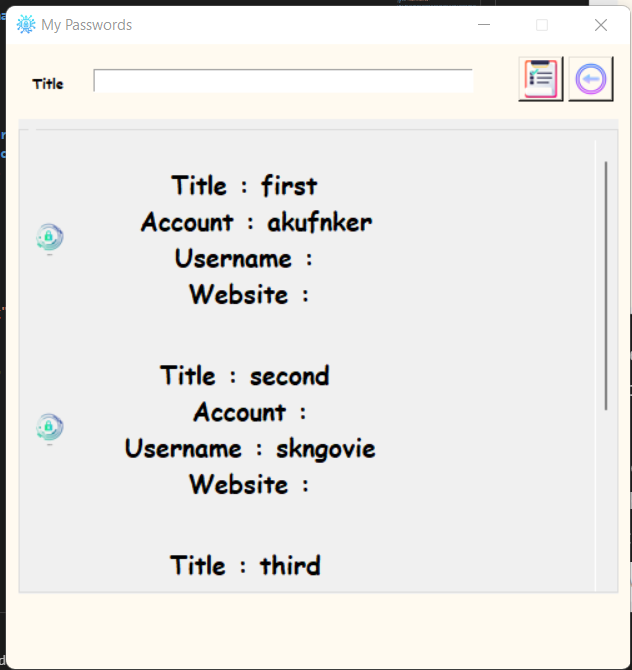
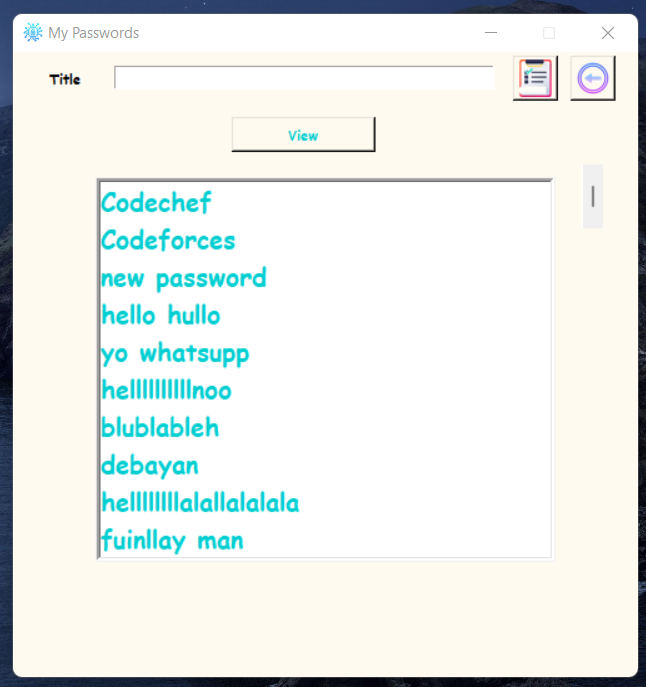
made some UI changes easier to access passwords

diff --git a/Python/OfflinePasswordManager/passwordapp.py b/Python/OfflinePasswordManager/passwordapp.py
@@ -4,11 +4,9 @@ from PIL import Image,ImageTk
 import pyperclip as pc
 import sqlite3
 import create_database
-from tkinter import END, LEFT, TOP, messagebox, ttk, TOP, LEFT, BOTH, VERTICAL, RIGHT, Y
+from tkinter import ANCHOR, END, LEFT, NW, TOP, messagebox, ttk, TOP, LEFT, BOTH, VERTICAL, RIGHT, Y
 import sending_email
 import random
-
-
 
 
 ### COLORS
@@ -136,11 +134,7 @@ def copypasswd():                                                          ## fu
     sfield.delete(0,END)
 
 def scrchng():
-    sfield.place_forget()
-    srlbl.place_forget()
-    wrap.pack_forget()
-    bbtn.place_forget()
-    ebtn.place_forget()
+    searchfrm.pack_forget()
     frame2.pack()
 
 def updatepass(value):
@@ -225,47 +219,72 @@ def dbpage():                                 ## funtion that sets up the databa
     pddb.grid(row=4,column=0,padx=50,pady=20)
     pdbtn.grid(row=4,column=1,padx=5,pady=20)
 
+
 def searchwin():                                    ## funtoin that sets up the search window
-    global sfield,srlbl
+
     frame2.pack_forget()
-    srlbl = tk.Label(window,text="Title", bg=floralwhite, fg='#000000', font = f1,border=2,width=6)
-    srlbl.place(x=10,y=20)
-    sfield = tk.Entry(window,width=50)
-    sfield.place(x=70,y=20)
-    sfield.focus_set()  
-    ebtn.place(x=410,y=10)
-    bbtn.place(x=450,y=10)
+    searchfrm.pack()
+    main_list.delete(0,END)
+    con = sqlite3.connect('./database_folder/password.db')
+    c = con.cursor()
+    data = c.execute("SELECT * FROM Userinfo")
+    for i,d in enumerate(data):
+            main_list.insert(i,d[0])
 
-    global wrap
-    wrap = ttk.LabelFrame(window,height=650)
+    c.close()
+   
 
-    my_can = tk.Canvas(wrap)
-    my_can.pack(side=LEFT,fill = BOTH,expand=1)
 
-    my_scroll = ttk.Scrollbar(wrap,orient=VERTICAL,command=my_can.yview)
-    my_scroll.pack(side=RIGHT,fill=Y)
-
-    my_can.configure(yscrollcommand=my_scroll.set)
-    my_can.bind('<Configure>', lambda e: my_can.configure(scrollregion = my_can.bbox("all")))
-
-    global s_frm
-    s_frm = tk.Frame(my_can)
-
-    my_can.create_window((0,0),window=s_frm,anchor="nw")
-    
-    wrap.pack(fill=BOTH,expand=1,padx=10,pady=60)
+def view_item():                                                              ## funtion to poen a new window containing info abt the password
+    newwin = tk.Toplevel()
+    newwin.title(main_list.get(ANCHOR))
+    newwin.geometry("400x200")
 
     con = sqlite3.connect('./database_folder/password.db')
     c = con.cursor()
     data = c.execute("SELECT * FROM Userinfo")
-    for i,r in enumerate(data):
-       
-        btn = tk.Button(s_frm,image=accimg,borderwidth=0)
-        btn.grid(row=i,column=0,padx=5,pady=5)
-        nline = '\n'
-        tk.Label(s_frm,text=f"Title : {r[0]} {nline} Account : {r[1]}{nline} Username : {r[2]} {nline} Website : {r[4]}",font = f2).grid(row=i,column=1,pady=15)
-
+    for r in data:
+        if r[0] == main_list.get(ANCHOR):
+            tle = r[0]
+            usr = r[1]
+            acnt = r[2]
+            pas = r[3]
+            web = r[4]
+            break
     c.close()
+
+    titlelbl = tk.Label(newwin,bg  = floralwhite,text  = "Title",fg = '#000000',font = f1,width = 12,border=2)
+    titlelbl.grid(row=0,column=0,padx=10,pady=10)
+    titletxt = tk.Label(newwin,text = tle,font = f1)
+    titletxt.grid(row=0,column=1,padx=10,pady=10)
+
+    usrlbl = tk.Label(newwin,bg  = floralwhite,text  = "Username",fg = '#000000',font = f1,width = 12,border=2)
+    usrlbl.grid(row =1,column=0,padx=10)
+    usrtxt = tk.Label(newwin,text=usr,font = f1)
+    usrtxt.grid(row=1,column=1,padx=10,pady=10)
+    btn1 = tk.Button(newwin,image = nclip,border=2,command = lambda : pc.copy(usr))
+    btn1.grid(row = 1,column = 2,padx=20)
+
+    passwdlbl = tk.Label(newwin,bg  = floralwhite,text  = "Password",fg = '#000000',font = f1,width = 12,border=2)
+    passwdlbl.grid(row=2,column=0,padx=10,pady=10)
+    passtxt = tk.Label(newwin,text=pas,font = f1)
+    passtxt.grid(row=2,column=1,padx=10,pady=10)
+    btn2 = tk.Button(newwin,image = nclip,border=2,command= lambda : pc.copy(pas))
+    btn2.grid(row = 2,column = 2,padx=20)
+
+    accntlbl = tk.Label(newwin,bg  = floralwhite,text  = "Account",fg = '#000000',font = f1,width = 12,border=2)
+    accntlbl.grid(row=3,column=0,padx=10)
+    accntxt = tk.Label(newwin,text= acnt,font = f1)
+    accntxt.grid(row=3,column=1,padx=10,pady=10)
+
+    websitelbl = tk.Label(newwin,bg  = floralwhite,text  = "Website",fg = '#000000',font = f1,width = 12,border=2)
+    websitelbl.grid(row = 4,column=0,padx=10,pady=10)
+    websitetxt = tk.Label(newwin,text= web,font = f1)
+    websitetxt.grid(row=4,column=1,padx=10,pady=10)
+
+    nbbtn = tk.Button(newwin,image = nback,border=2,command=lambda : newwin.destroy())
+    nbbtn.grid(row=0,column=10,sticky=NW,padx=30)
+
 
 def deletepass(value):
     try:
@@ -397,14 +416,37 @@ submitbtn = tk.Button(frameaddentry, text= "Submit",width = 10,bd=4,activebackgr
 
 # SEARCH FRAME
 
-searchfrm = tk.Frame(window,width=500,height=750)
+searchfrm = tk.Frame(window,width=500,height=500)
+searchfrm.configure(bg = floralwhite)
 backar = ImageTk.PhotoImage(Image.open('./Images/bar2.png').resize((30,30)))
-bbtn = tk.Button(window,image=backar,borderwidth=0,bg=floralwhite, border=2,command=scrchng)
+bbtn = tk.Button(searchfrm,image=backar,borderwidth=0,bg=floralwhite, border=2,command=scrchng)
 
 clip = ImageTk.PhotoImage(Image.open('./Images/clipboard.png').resize((30,30)))
-ebtn = tk.Button(window,fg=floralwhite,borderwidth=2,image=clip,command=copypasswd,bg=floralwhite, border=2)
+ebtn = tk.Button(searchfrm,fg=floralwhite,borderwidth=2,image=clip,command=copypasswd,bg=floralwhite, border=2)
 
 accimg =ImageTk.PhotoImage(Image.open('./Images/accessdata.png').resize((30,30)))
+
+srlbl = tk.Label(searchfrm,text="Title", bg=floralwhite, fg='#000000', font = f1,border=2,width=6)
+srlbl.grid(row=0,column=0,padx = 5,pady=10)
+sfield = tk.Entry(searchfrm,width=50)
+sfield.grid(row=0,column=1,padx=10)
+sfield.focus_set()  
+ebtn.grid(row = 0,column=2,padx=5)
+bbtn.grid(row=0,column=3,padx=5)
+
+main_list = tk.Listbox(searchfrm,height=10,width=30,border=3,font = f2,selectbackground=darkorange,fg=darkTurquoise)                         ## the list box that will contain the title of the passswords stored
+main_list.grid(row=3,column=0,columnspan=4,rowspan=1000,pady=10)
+viewbtn = tk.Button(searchfrm,width = 15,bg=floralwhite,fg = darkTurquoise,border=2,command=view_item,text = "View",font = f1)
+viewbtn.grid(row=1,column=1,pady=10,padx=20)
+nclip = ImageTk.PhotoImage(Image.open('./Images/clipboard.png').resize((20,20)))
+nback = ImageTk.PhotoImage(Image.open('./Images/bar2.png').resize((20,20)))
+
+scroll = tk.Scrollbar(searchfrm)
+scroll.grid(row=3,column=3)
+
+main_list.configure(yscrollcommand=scroll.set)
+scroll.configure(command = main_list.yview)
+
 
 
 # SECURITY FRAME
@@ -422,6 +464,8 @@ chngem = tk.Label(scfrm, bg=darkTurquoise, fg = '#000000',text = "CHANGE EMAIL",
 chngem.grid(row=2,column=0,padx=10,pady=10)
 embtn =  tk.Button(scfrm, image=chngimg, borderwidth=0, bg=floralwhite, border=2, command=topem)
 embtn.grid(row=2,column=1,padx=10,pady=10)
+
+
 
 # DATABASE FRAME
 
@@ -450,6 +494,7 @@ pdbtn = tk.Button(dbfrm,image= pdimg, bg = floralwhite,border=2,command= deletet
 window.configure(bg=floralwhite)
 frame1.pack()
 window.mainloop()
+
 
 
 

diff --git a/Python/OfflinePasswordManager/README.md b/Python/OfflinePasswordManager/README.md
@@ -60,8 +60,18 @@ cd Dev-Scripts/Python/OfflinePasswordManager
 <img src="./Images/searchpg.png">
 </p>
 
-* ## 6. In order to copy a password write the title of the password in the title box and press on the clipboard button next to it and u'll have it copied in your clipboard
- <br>
+* ## 6. Now in order to copy the passsword click on the password title that u want to view and press view a new windoe will open up with all the registered information clipboard button will be present with the help of which u will be able to copy the password to the clipboard
+
+<p align="center">
+<img src="./Images/img1.png">
+</p>
+
+<p align="center">
+<img src="./Images/img2.png">
+</p>
+
+
+* ### Note :You can also type the password title in the title inout box and hit the clipboard button beside that to copy the password for that title..
 
 * ## 7. Inorder to change the master password or the registered email click on the security button and u will see the options to change them and on clicking the corresponding buttons u can set the new imformation
 
@@ -69,9 +79,11 @@ cd Dev-Scripts/Python/OfflinePasswordManager
 <img src="./Images/securitypg.png">
 </p>
 
+
 <p align="center">
 <img src="./Images/changinginfo.png">
 </p>
+
 
 * ## 8. There is also the option to convert the db to a csv file , to delete database or to backup the database, as well as to share the databse in pdf
 
